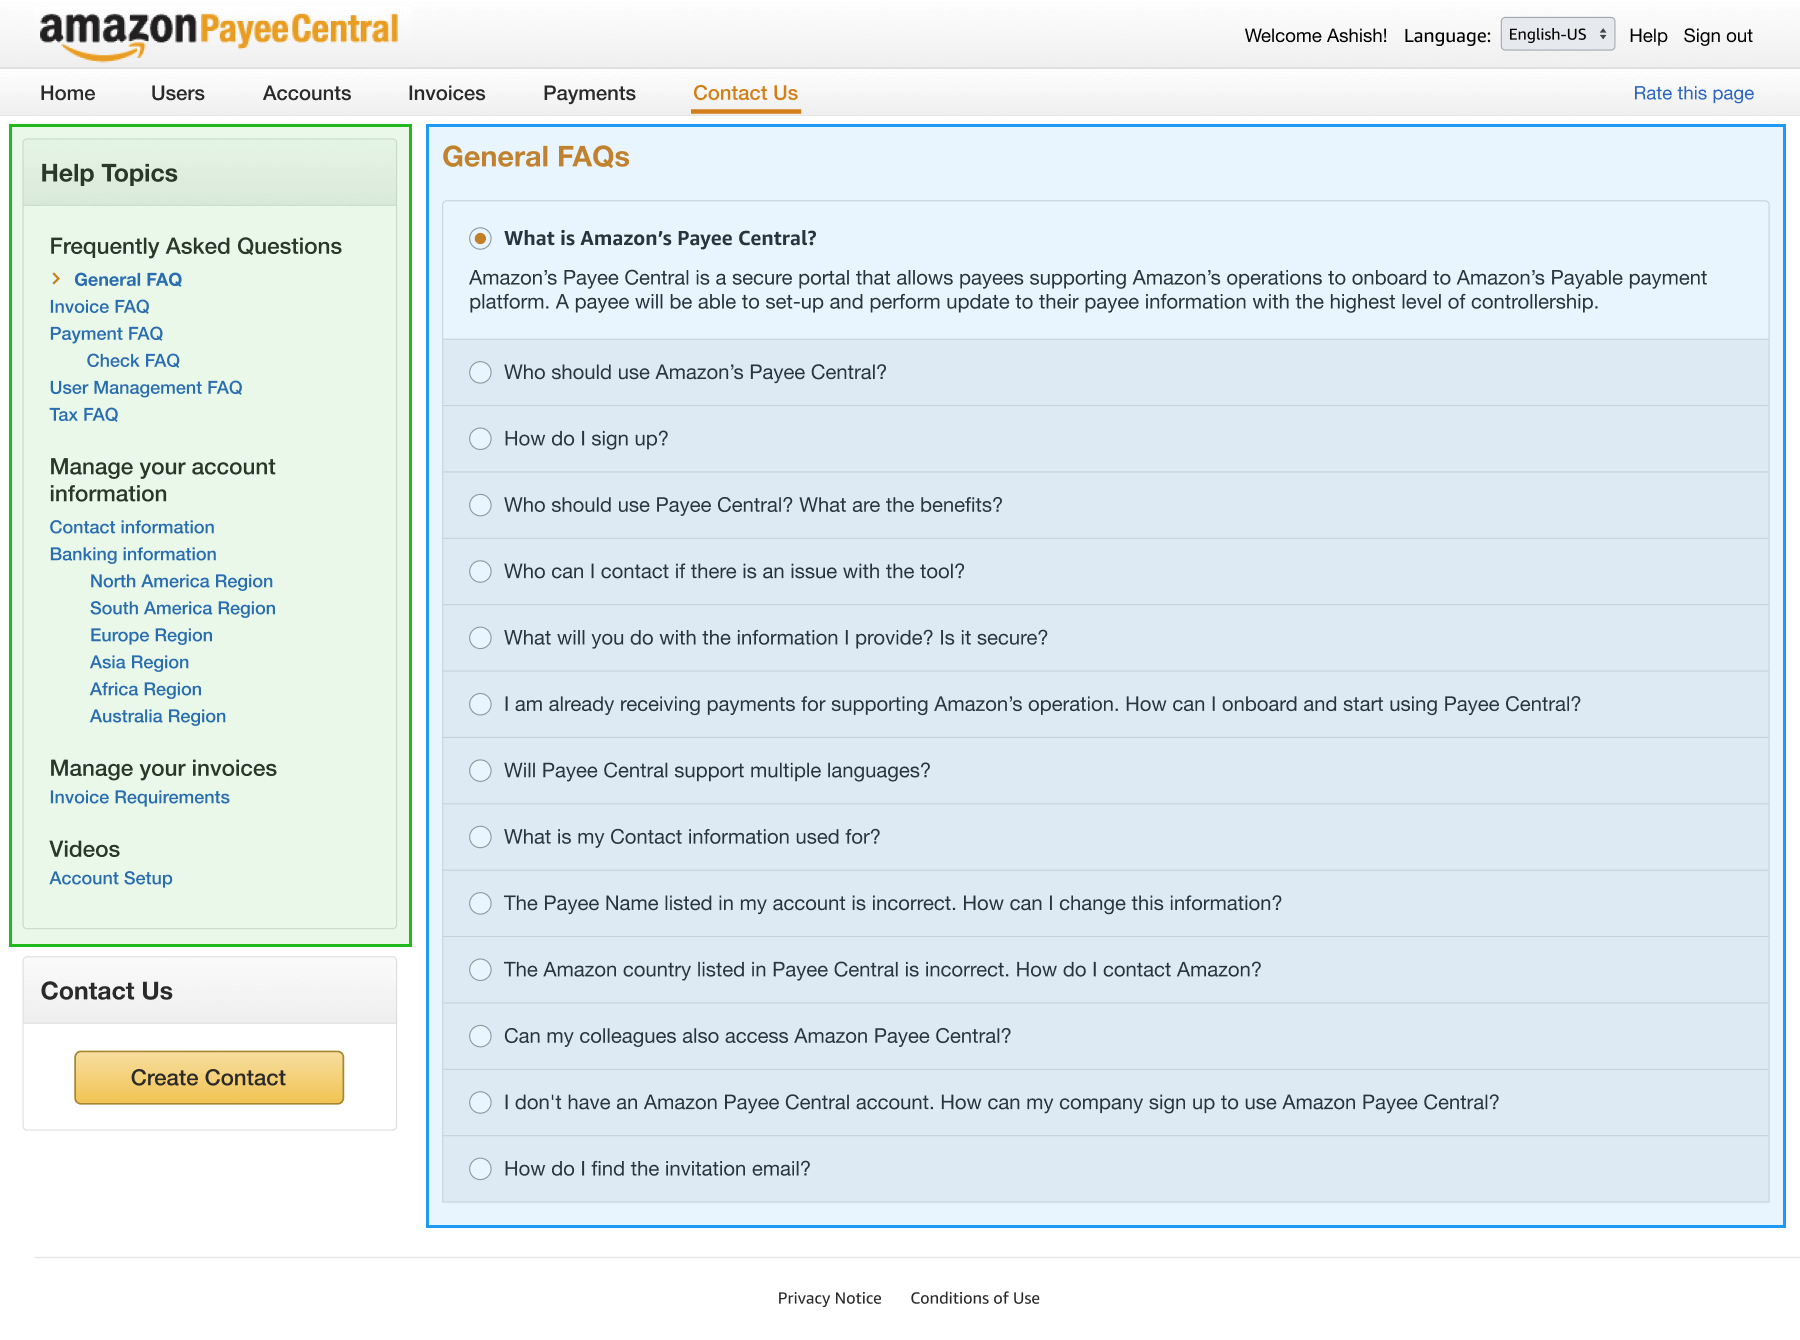
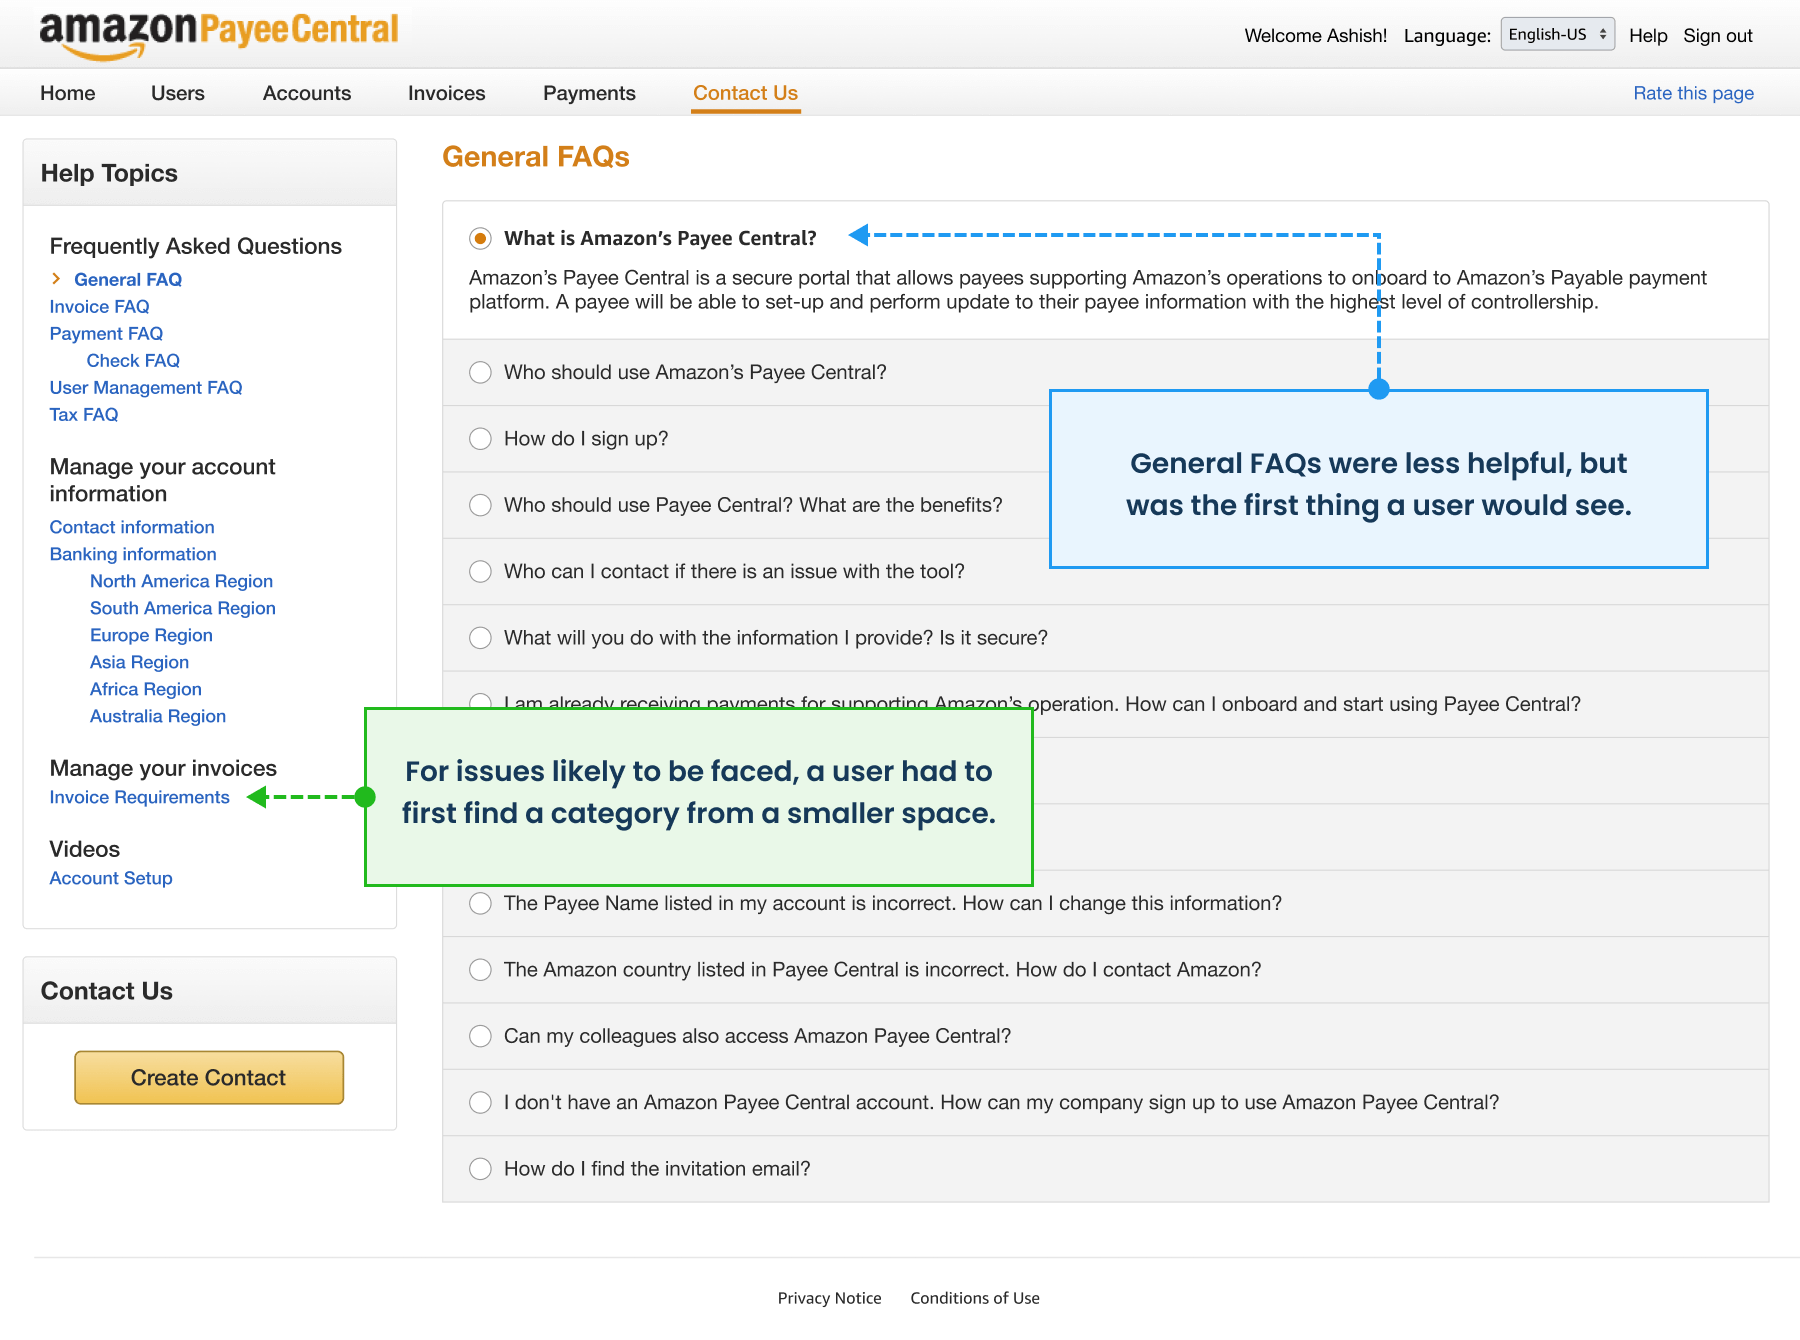
Images update

diff --git a/automated-invoicing.html b/automated-invoicing.html
@@ -52,48 +52,41 @@
           </article>
 
           <div class="section-left"> 
-            <p>Payees are suppliers who sell goods & services to Amazon, and then send invoices to receive payments. These invoices, mostly in PDF format, were sent to Amazon via email. Amazon used to process these invoices through legacy systems.</p>
-            <p>Amazon created Payee Central to allow payees to track their invoices and payments.</p>
-          </div>
-
-          <div class="section-right">
             <img  src="images/Automating-Invoicing/01-Context-01.png" >
             <!-- <p class="small">Payees invoice Amazon to receive payments.</p>  -->  
+            <p class="space"></p>
+            <p>Payees are suppliers who sell goods & services to Amazon, and then send invoices to receive payments. These invoices, mostly in PDF format, were sent to Amazon via email. Amazon used to process these invoices through legacy systems.</p>
           </div>
           
-          <div class="section-left"> 
-            
-            <p>Using Payee Central, payees could create invoices via webform, which involved manually filling in invoice details.
-              It required time, effort and cost, and was suitable for payees with low invoice volume.</p>
-          </div>
-
+          
           <div class="section-right"> 
             <img  src="images/Automating-Invoicing/01-Context-02.png" width="100%">
-            <!-- <p class="small">Webform invoice was suitable for payees with low invoice volume.</p>    -->
+              <!-- <p class="small">Webform invoice was suitable for payees with low invoice volume.</p>  -->
+              <p class="space"></p>
+            <!-- <p>Amazon created Payee Central to allow payees to track their invoices and payments.</p> -->
+            <p>Amazon created Payee Central, using which Payee Central, payees could create invoices via webform.</p>
+            <p>Webform involved manually filling in invoice details, requiring time, effort and cost, and thus was suitable for payees with low invoice volume.</p>
           </div>
 
-          <div class="section-left">
-            <p>A small number (~2%) of payees did business at high volume, nearly ~70% of the total invoice processed. Existing methods of invoice processing resulted in higher time, effort and cost for them.</p> 
+          <div class="section-center">
+            <div class="highlight highlight-bigger">Automation was needed to process invoices for high volume payees.</div>
+          </div>
+
          
 
-         <!--  <div class="section-right">   
-            <div><img  src="images/Automating-Invoicing/01-Context-03.png" width="100%"></div>
-            <p class="small">Webform was not suitable for payees with high volume of invoices.</p>
-          </div> -->
-          
-           
-          
-          
-            <p class="highlight highlight-bigger">Automation was needed to process invoices for high volume payees.</p>
+          <div class="section-left">
+            <img  src="images/Automating-Invoicing/01-Context-03.png" width="100%">
+            <!-- <p class="small">Webform was not suitable for payees with high volume of invoices.</p> -->
             <p class="space"></p>
-            <p>EDI - Electronic Data Interchange - is an industry standard to automate invoice processing. It requires a one-time setup, after which invoice files can be directly transferred between servers of two companies.</p>
+            <p>A small number (~2%) of payees did business at high volume, nearly ~70% of the total invoice processed. Existing methods of invoice processing resulted in higher time, effort and cost for them. Automation was needed to process invoices for high volume payees.</p>  
           </div>
-
+          
           <div class="section-right">
             <img  src="images/Automating-Invoicing/01-Context-04.png" width="100%">
-            <p class="small">EDI is an industry standard to automate invoice processing.</p>
-            
-          </div>
+            <!-- <p class="small">EDI is an industry standard to automate invoice processing.</p> -->
+            <p class="space"></p>
+            <p>EDI - Electronic Data Interchange - is an industry standard to automate invoice processing. It requires a one-time setup, after which invoice files can be directly transferred between servers of two companies.</p>
+          </div> 
 
         </div> <!-- Grid Ends -->
 
@@ -112,21 +105,22 @@
           </article>
         
 
-          <div class="section-left"> 
-            <p>The business goal of this project was to onboard 15 payees with EDI capabilities to Payee Central.</p>
-            <p>The UX goal was to create a self-service interface using which payees can create their EDI setup, and do maintenance activities when required, so that they are invoice-ready at all times.</p>
-          </div>
           <div class="section-left">
             <img  src="images/Automating-Invoicing/02-1-Business-Goals.png" width="100%">
             <p class="small">Business goal: Onboard 15 payees.</p>
+            <p class="space"></p>
+            <p>The business goal of this project was to onboard 15 payees with EDI capabilities to Payee Central.</p>
           </div>
+
+
           <div class="section-right">
             <img  src="images/Automating-Invoicing/02-2-UX-Goals.png" width="100%">
             <p class="small">UX goal: Create self-serivce interface for EDI setup.</p>
+            <p class="space"></p>
+            <p>The UX goal was to create a self-service interface using which payees can create their EDI setup, and do maintenance activities when required, so that they are invoice-ready at all times.</p>
           </div>
           
       </div> <!-- Grid Ends -->
-
     </div> <!-- Content ends -->
 
 
@@ -229,8 +223,6 @@
               </p>
               <p>The users were well trained at their job, but required some data from Amazon to complete their work.
               </p>
-              <p>Ideally, they were to do the setup in one go only.
-              </p>
             </div>
           </div>
           
@@ -259,7 +251,13 @@
               </ul>
             </div>
             <p class="space"></p>
-            <p>Understood how data would flow for a successful setup, and the various error scenarios that were to be handled.</p>
+            <div class="highlight highlight-first">
+              <p>Next, discussed with team -</p>
+              <ul class="bullet-items">
+                <li>how data would flow for a successful setup</li>
+                <li>various error scenarios that were to be handled</li>
+                </ul>
+            </div>
           </div>
 
             <div class="section-right">
@@ -299,7 +297,7 @@
             <h2>Communicating error messages</h2>
           </article>
          
-          <div class="section-left"> 
+          <div class="section-left-narrow"> 
             <article>
               <p>In stage 1, there was no interface planned.</p>
               <p>Amazon developers were to receive EDI connection details & test files from Payee developers via email. Then, manually create an EDI connection, and add the test file to the system being built for verification.</p>
@@ -308,17 +306,17 @@
             </article>
           </div>
 
-          <div class="section-right">
+          <div class="section-right-wide">
             <img src="images/Automating-Invoicing/07-1-Email-Templates.png" width="100%">
             <p class="small">Wrote copy for email templates.</p>
           </div> 
         
-          <div class="section-left"> 
+          <div class="section-left-narrow"> 
               <p>Soon, we realised the number of errors was far more than initially expected, and an email was not an ideal solution.</p>
               <p>Suggested creating a separate page to report the errors, and sending the page link via email.</p>
           </div>
 
-          <div class="section-right">
+          <div class="section-right-wide">
             <img src="images/Automating-Invoicing/07-2-Errors-Page.png" width="100%">
             <p class="small">Created an error page for resolution.</p>
           </div> 
@@ -378,15 +376,14 @@
 
           <div class="section-right-wide">
             <p class="space"></p>
-            <a href="images/Automating-Invoicing/09-Progressive-Disclosure.png"><img src="images/Automating-Invoicing/09-Progressive-Disclosure.png"></a>
+            <a href="images/Automating-Invoicing/09-Progressive-Disclosure.png">
+              <img src="images/Automating-Invoicing/09-Progressive-Disclosure.png"></a>
             
             <p class="small">Used progressive disclosure, and remotely tested wireframes with users.</p>
           </div>
     
           <article class="section-left">
-            <p class="space"></p>
             <p>Once we were satisfied that the users followed the interaction, the next step was to create a flow to repeatedly test EDI files.</p>
-            
           </article>
           <div class="section-left">
             <img src="images/Automating-Invoicing/10-1-Testing-Repeatedly.png">
@@ -527,7 +524,6 @@
 
 
           <article class="section-center">
-            <p class="space"></p>
             <div class="highlight">
               <p >These looked simple during whiteboarding. But complexity emerged when detailed in medium fidelity.</p>
               <p>We had to - </p>
@@ -677,10 +673,6 @@
             <div class="section-right"> 
             <img src="images/Automating-Invoicing/20-1-Dashboard-Where-Can-Invoice.png" width="100%">
           </div>
-
-          
-
-         
 
           <!-- 
           <div class="section-left">

diff --git a/redesign-help.html b/redesign-help.html
@@ -66,8 +66,8 @@
           </div>
 
           <article class="section-left">
-            <p class="highlight-big">The service was being launched with new features and in new geographies, so the FinComm team expected an increase in the number of support tickets.</p>
-            
+            <p class="highlight highlight-big">The service was being launched with new features and in new geographies, so the FinComm team expected an increase in the number of support tickets.</p>
+            <p class="space"></p>
             <p>To avoid this situation, the FinComm team wanted to add about 30 new questions which were actually asked by users, to the existing 78 FAQ questions.</p>
             <p>The business team in FinOps suggested adding a search to the existing page, and sought help from UX.</p>
             
@@ -80,8 +80,6 @@
           </div>
 
           <article class="section-center highlight">
-              <!-- <p class="space"></p> -->
-            
               <p class="thick">From UX perspective, I opined that - </p>  
               <ul class="bullet-items">
                 <li>Existing designs were not aligned with user needs. </li>
@@ -143,13 +141,15 @@
             <h2>UX Audit & industry best practices.</h2>
           </article>
 
-          <article class="section-left"> 
+          <article class="section-center">
+            <div class="highlight">
             <p>To align the stakeholders, I - </p>
             <ul class="bullet-items">
               <li>Listed the usability issues with the existing design.</li>
               <li>Collected examples of best practices in industry.</li>
               <li>Collected examples from other teams within Amazon.</li>
             </ul>
+          </div> 
           </article>
 
           <div class="section-left"><img src="images/Aligning-Help/03-1-UX-Audit-Best-Practices.png">
@@ -205,14 +205,14 @@
           <div class="section-left">
             <p>On the 'Contact Us' page, the main function of contacting the team was given a small space.</p>
             <p>Less used previous contacts were shown upfront, and given a large space. </p>
-            <img src="images/Aligning-Help/05-1-Immediate-Needs.png">
+            <img src="images/Aligning-Help/05-1-Immediate-Needs.png" class="shadow">
             <p class="small">Less used previous contacts were given a large space.</p>
           </div>
 
           <article class="section-right"> 
             <p>On the Help page, the first thing a user would see was General FAQs, which were less helpful.</p>
             <p>For the issues likely to be faced, a user had to first find a category from a smaller space.</p>
-            <img src="images/Aligning-Help/05-2-Immediate-Needs.png">
+            <img src="images/Aligning-Help/05-2-Immediate-Needs.png" class="shadow">
             <p class="small">Less helpful General FAQs were the first thing a user would see.</p>
           </article>
         </div> <!-- Grid Ends -->
@@ -275,7 +275,7 @@
 
           <div class="section-right">
             <img src="images/Aligning-Help/07-2-Long-Sentences.png">
-            <p class="small">Answers were too long to read.</p>
+            <p class="small">Paragraph length was too long to read.</p>
           </div>
          
         </div> <!-- Grid Ends -->
@@ -401,22 +401,7 @@
             <p>Merging of 'Help' and 'Contact Us' simplified the information architecture. All actions for finding help content could be initiated from a single page. </p>
             <p>This allowed to place content in order of user need: High, Medium, and Less use.</p>
             <p>80% of users could see the top questions upfront, without going deep into rest of the content.</p>
-          </div>
-
-          <article class="section-left"> 
-            
-          </article>
-
-          <article class="section-right"> 
-            
-           <!--  <div>
-              <p></p>
-              <p class="thick">Placed content in order of usage priorities - </p>
-              <p style="margin:-20px 0px; ">High, Medium, and Less use.</p>
-            </div> -->
-          </article>
-
-          
+          </div> 
           
         </div> <!-- Grid Ends -->
     </div> <!-- Content ends -->
@@ -432,14 +417,14 @@
        
         <div class="section-left"> 
           <p>Made a 3 column layout to put the 3 priority levels of content in order from left to right.</p>
-          <p class="space"></p>
+          <p class="space4"></p>
           <img src="images/Aligning-Help/11-1-Concept-01.png" width="100%">
           <p class="small">3 column layout for 3 priority levels.</p>
         </div>
 
         <div class="section-right"> 
           <p>This idea suffered as there was less space to show questions and answers. All sub-categories could not be seen in one glance.</p>
-          <p class="space"></p>
+          <p class="space4"></p>
           <img src="images/Aligning-Help/11-2-Concept-01.png" width="100%">
           <p class="small">Less space to show answers and sub-categories.</p>
         </div>
@@ -537,9 +522,9 @@
           <h2>Simplified Create Case page</h2>
         </article>
        
-        <div class="section-left-wide"> 
+        <div class="section-center"> 
           <div class="highlight">
-            <p>To simplify the create case page -</p>
+            <p>To simplify the Create Case page -</p>
             <ul class="bullet-items">
               <li>Removed the redundant fields.</li>
               <li>Added a single drop-down for asking the issue type.</li>
@@ -574,7 +559,7 @@
         </div>
 
         <div class="section-right"> 
-          <p>I explored how videos could be integrated with text solutions, with long term needs in mind.</p>
+          <p>Explored how videos could be integrated with text solutions, with long term needs in mind.</p>
         </div>
 
         <div class="section-left">

diff --git a/style.css b/style.css
@@ -17,9 +17,14 @@ color: #163959;
 .content:nth-child(odd){background: #E8F6FF;}
 .content:first-child{padding-top: 12rem; /* background:#D7EFFF; */}
 
+/* .shadow {filter: drop-shadow(0px 0px 10px #eceded);} */
+
+/* #E4F7FF */
+
 
 .none{display: none;}
 .space8 {margin-bottom: 8rem;}
+.space4 {padding-bottom: 2rem;}
 .content{padding-top: 4rem; padding-bottom: 4rem;}
 .content img{max-width: 100%; /* filter: drop-shadow(0px 0px 20px rgb(0, 0, 0, .05)); */}
 
@@ -38,7 +43,7 @@ color: #163959;
 p{padding-bottom: 1.25rem; font-size: 20px; font-weight:400; color: #2D4E6C; 
   text-align: justify; line-height: 160%;}
 
-p.medium{font-weight: 500; margin-bottom: -1rem;}
+p.medium{font-size: 19px; font-weight: 500; margin-bottom: -1rem;}
 p.thick {font-weight: 600;}
 p.bold{font-weight: 700;}
 p.left {text-align: left;} 
@@ -343,6 +348,11 @@ margin: 0 auto;}
     padding: 0px 20px;
   }
 
+  .section-grid {
+    font-size: 21px;
+    display: grid;
+    gap: 1.5rem;
+  }
 
   .content:first-child{padding-top: 6rem;}
   .duration{padding-top:0px; padding-bottom:10px;font-size: 18px;}
@@ -365,6 +375,7 @@ margin: 0 auto;}
   .duration{font-size: 13px;}
   .section-grid h2{font-size: 28px; max-width: 34ch; line-height: 125%; } 
 
+  p.medium {font-size: 17px;}
   .number-items li{margin-left:24px; padding-left: .5rem; padding-top: 1.25rem; font-size: 18px;}
   .bullet-items li{margin-left:24px; padding-left: .5rem; padding-top: .5rem; font-size: 18px; font-weight: 400;color: #2D4E6C; }
   .bullet-items li:first-child{margin-top: -20px;}
@@ -684,6 +695,5 @@ margin: 0 auto;}
     grid-column-start: 7;
     grid-column-end: 10;
   }
-
 
 }

diff --git a/index.html b/index.html
@@ -39,7 +39,6 @@
             <div class="intro">
               <h1>Hi, I am Ashish Sharma</h1>
               <!-- <p class="intro-text">With user-centric design, I remove complexity & simplify human lives.</p> -->
-
               <p class="intro-text">With <span style="font-weight:700;">user-centric design</span>, I strive to <span style="font-weight:700;">find & remove complexity</span> to <span style="font-weight:700;">simplify human lives</span>.</p>
               <p class="intro-text-small">My forte lies in <span style="font-weight:700;">Interaction Design</span>.</p>
 
@@ -103,7 +102,7 @@
           <a href="redesign-help.html"><h2>Aligning Help page with real user needs</h2></a>
           <p class="description">Redesign of Help page so that payees can find answers to their questions quickly and with less assistance.</p>
           <p class="duration">Amazon, Payee Central, 2018</p>
-          <a href="case-study-03.html" class="button">Read more</a> 
+          
         </article>
 
         <div class="section-right card-image">

diff --git a/finding-nearby-activities.html b/finding-nearby-activities.html
@@ -350,14 +350,14 @@
           </div>
 
           <article class="section-left"> 
-            <p class="space"></p>
+            
             <p>Since this was close to launch, we agreed to use option (#3) a horizontal carousel for all pins, as it was available in the design system, and could be readily used by developers. Other options were not in the design system and needed more development time. 
             <p>Interestingly, post launch analytics showed that most users did not go past 3 cards.</p> 
             <p>And in a user study done by the UXR team, users requested to see a list view after first few cards. So option (#4) was what users needed.</p>
           </article>
 
           <article class="section-right"> 
-            <p class="space"></p>
+            
             <img src="images/Finding-Nearby-Activities/09-Solution-Carousel.png">
             <p class="small">Horizontal carousel was used for MVP.</p>
           </article>
